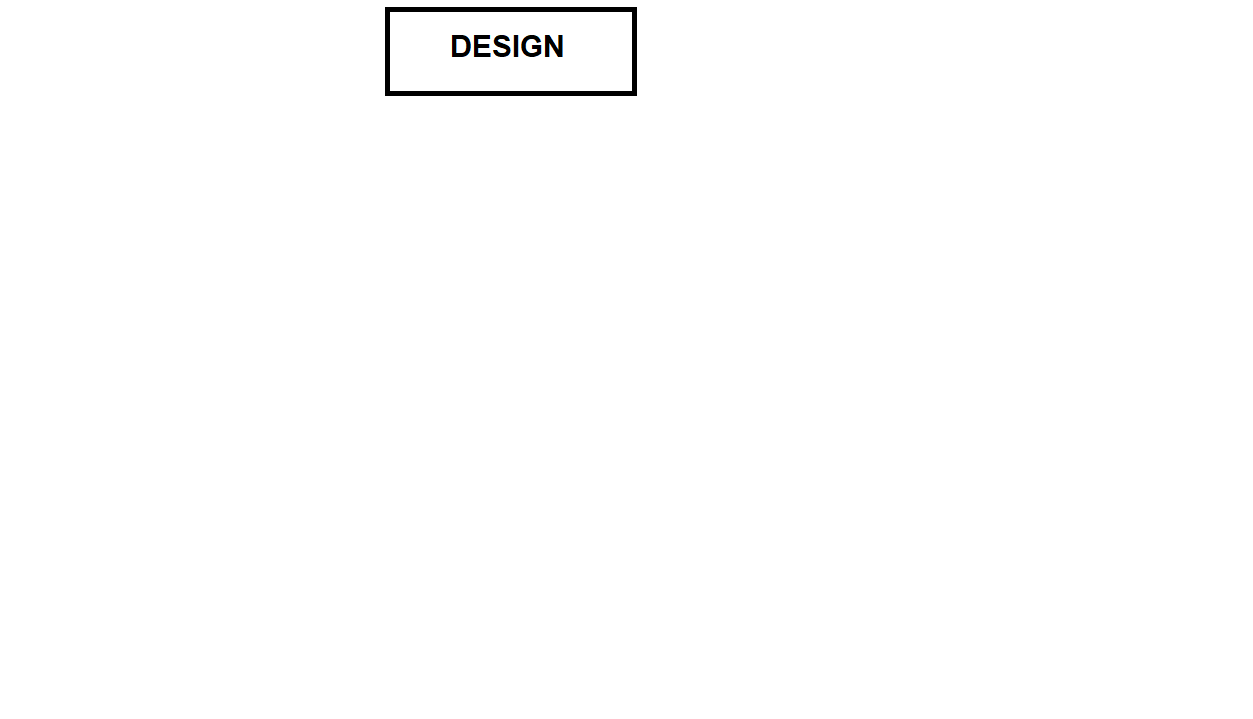
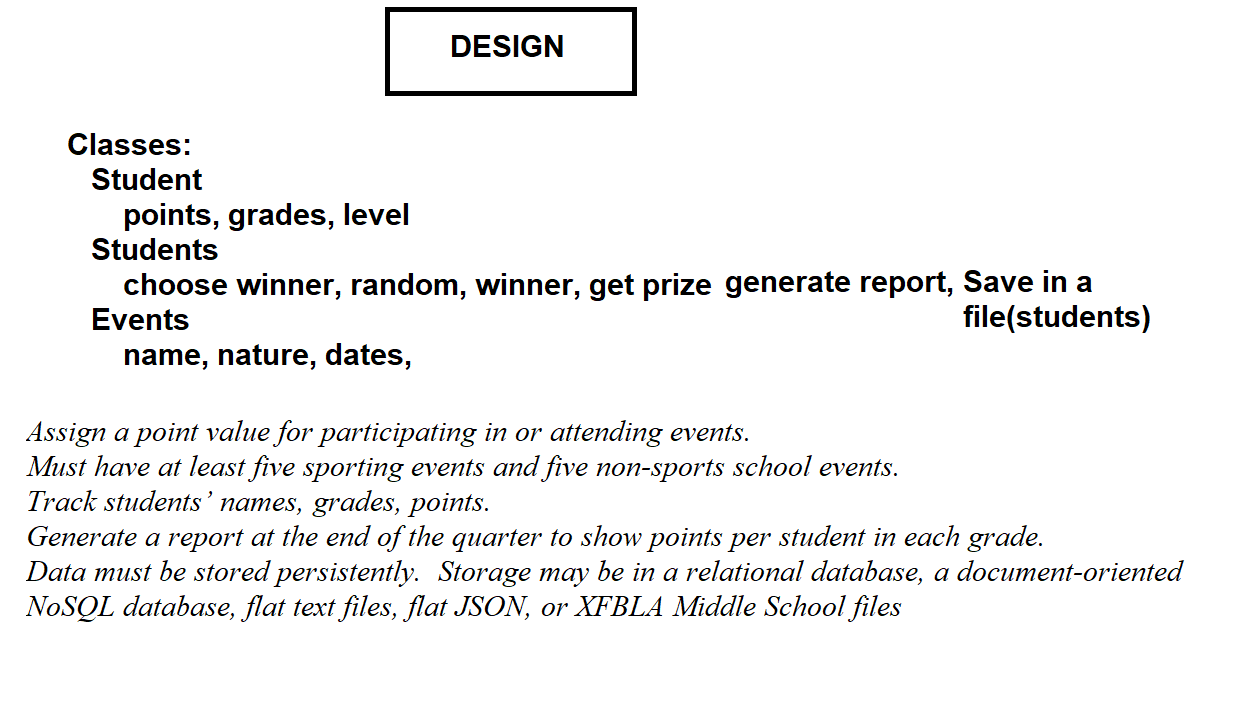
Created Students and events, updated design

Changed region(s): [[0.0, 0.5814, 0.9338, 0.8567], [0.0311, 0.1836, 0.9338, 0.5202]]

diff --git a/student.py b/student.py
@@ -1,0 +1,44 @@
+import random
+
+
+class Student:
+    def __init__(self, name, grades, grade_level, points=0):
+        self.name = name
+        self.grades = grades
+        self.grade_level = grade_level
+        self.points = points
+
+    def add_point(self, n=1):
+        self.points += n
+
+    def present(self, name, grades, grade_level, points):
+        ...
+
+
+class Students:
+    def __init__(self):
+        self.students = []
+
+    def add_student(self, name, grades, grade_level, points=0):
+        self.students.append(Student(name, grades, grade_level, points))
+
+    def remove_student(self):
+        ...
+
+    def get_winners(self):
+        ...
+
+    def get_random_winner(self):
+        return random.choice(self.students)
+
+    def get_prize(self, student):
+        ...
+
+    def load_data(self):
+        ...
+
+    def save_data(self):
+        ...
+
+    def generate_report(self):
+        ...

diff --git a/Events.py b/Events.py
@@ -1,0 +1,8 @@
+class Event:
+    def __init__(self):
+        ...
+
+
+class Events:
+    def __init__(self):
+        ...
